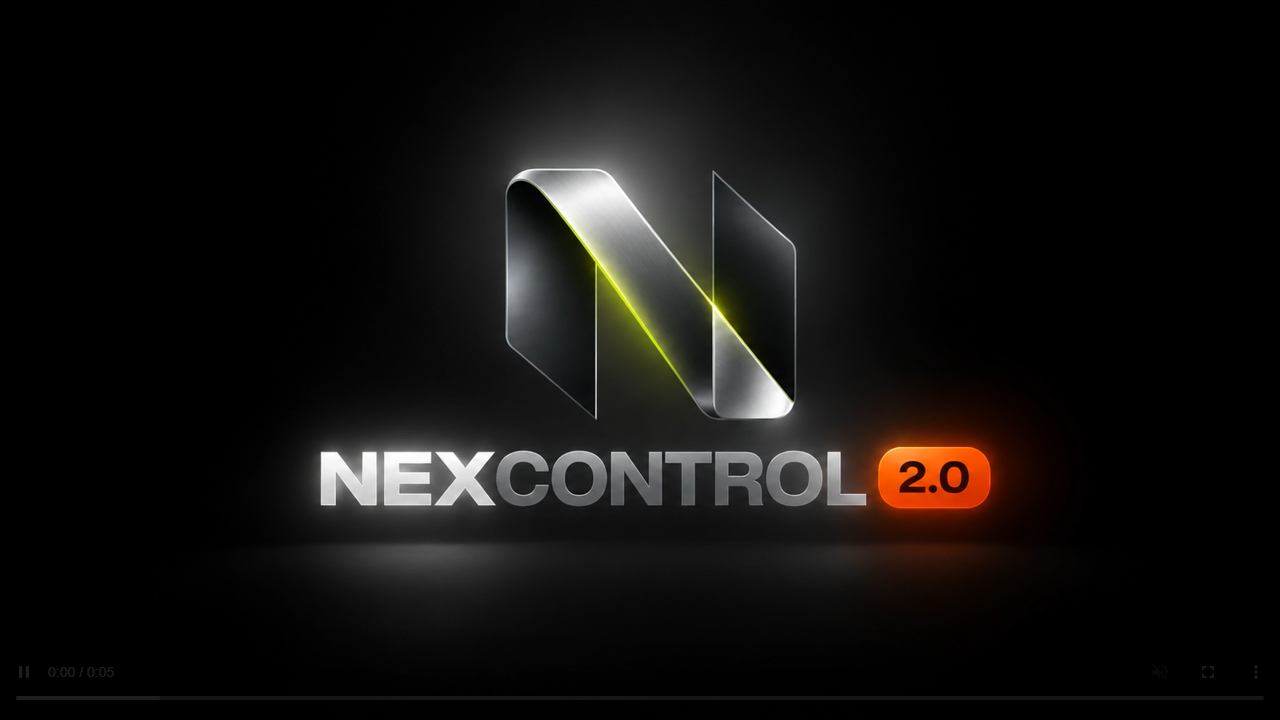
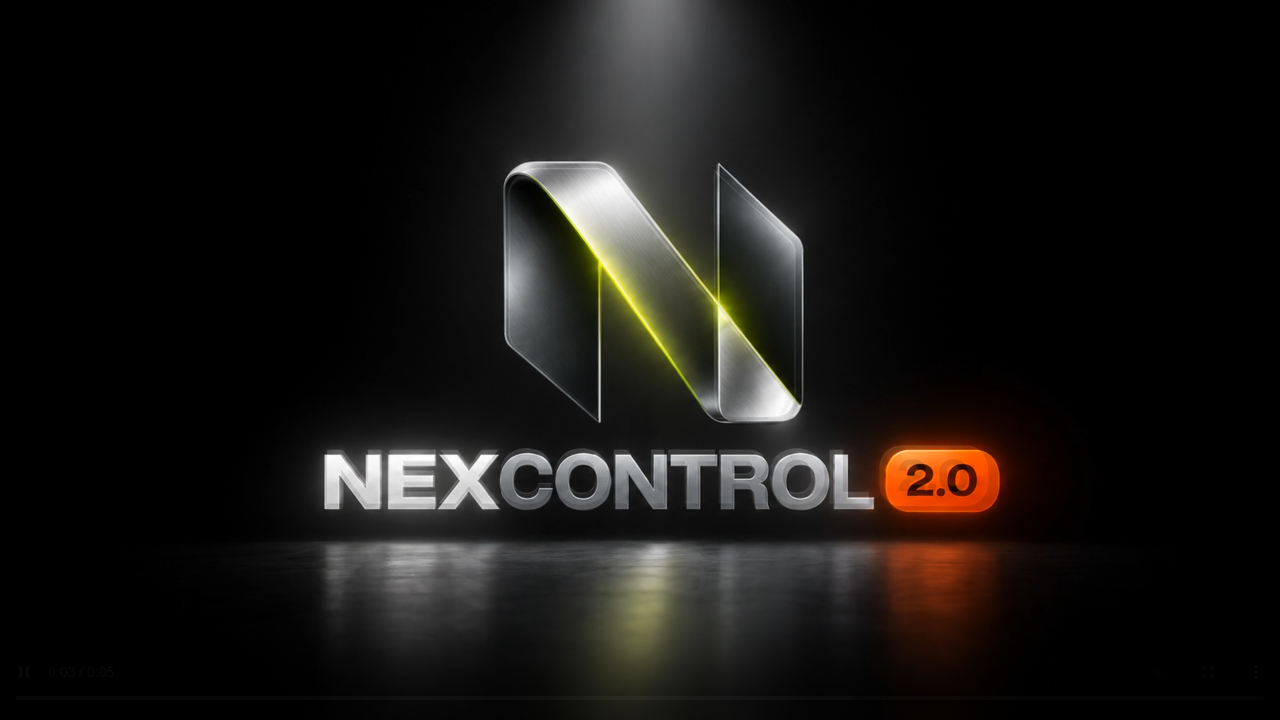
Landing /v2: o poster da marca era um quadro preto
O componente usa o poster como base — e o quadro que eu tinha escolhido
era o PRIMEIRO do filme, quando a logo ainda nao apareceu do escuro.
Resultado: a secao institucional ficava vazia ate o video carregar, e
sem movimento no sistema ficava vazia pra sempre.

Poster passa a ser o quadro do meio, com a marca ja formada.

Changed region(s): [[0.2188, 0.1833, 0.7812, 1.0], [0.4375, 0.0, 0.5938, 0.1833], [0.4375, 0.5194, 0.4688, 0.5806]]

diff --git a/app/v2/estilo.js b/app/v2/estilo.js
@@ -177,7 +177,7 @@ export default function EstiloV2() {
       .nv2-marca-filme {
         position: absolute; top: 50%; left: 50%;
         width: min(880px, 104vw); transform: translate(-50%, -50%);
-        opacity: 0.5; pointer-events: none; z-index: 0;
+        opacity: 0.62; pointer-events: none; z-index: 0;
         -webkit-mask-image: radial-gradient(ellipse 58% 62% at 50% 50%, #000 32%, transparent 78%);
               mask-image: radial-gradient(ellipse 58% 62% at 50% 50%, #000 32%, transparent 78%);
       }
